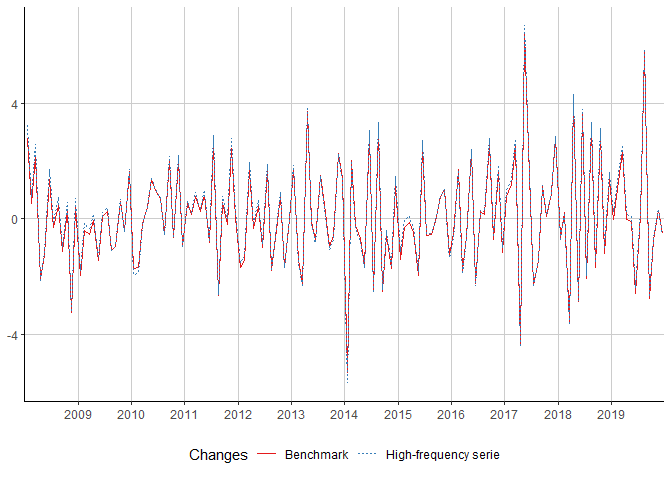
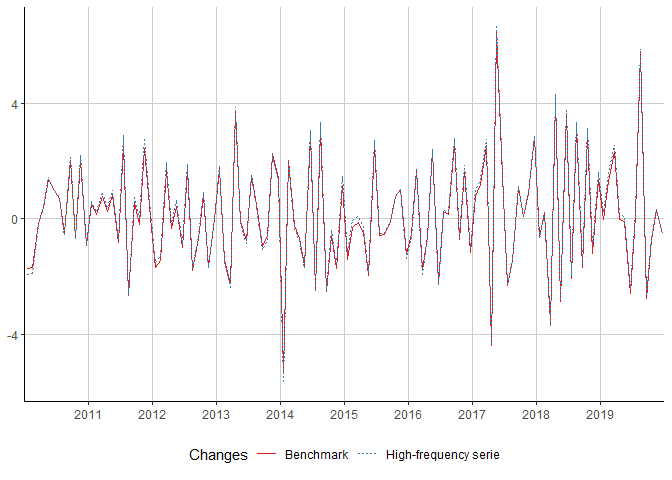
readme

diff --git a/README.md b/README.md
@@ -55,9 +55,9 @@ autoplot(in_sample(benchmark))
 
 ``` r
 autoplot(in_dicator(benchmark,type="changes"),
-         start=c(2008,1),end=c(2019,12))
+         start=c(2010,1),end=c(2019,12))
 autoplot(in_dicator(benchmark,type="contributions"),
-         start=c(2008,1),end=c(2019,12))
+         start=c(2010,1),end=c(2019,12))
 ```
 
 <img src="man/figures/README-unnamed-chunk-5-1.png" width="50%" /><img src="man/figures/README-unnamed-chunk-5-2.png" width="50%" />
@@ -71,3 +71,10 @@ autoplot(in_revisions(new_benchmark,
 ```
 
 <img src="man/figures/README-unnamed-chunk-6-1.png" width="100%" />
+
+You can also use the shiny application **reView**, to easily chose the
+best parameters for your benchmark.
+
+``` r
+reView(benchmark)
+```
